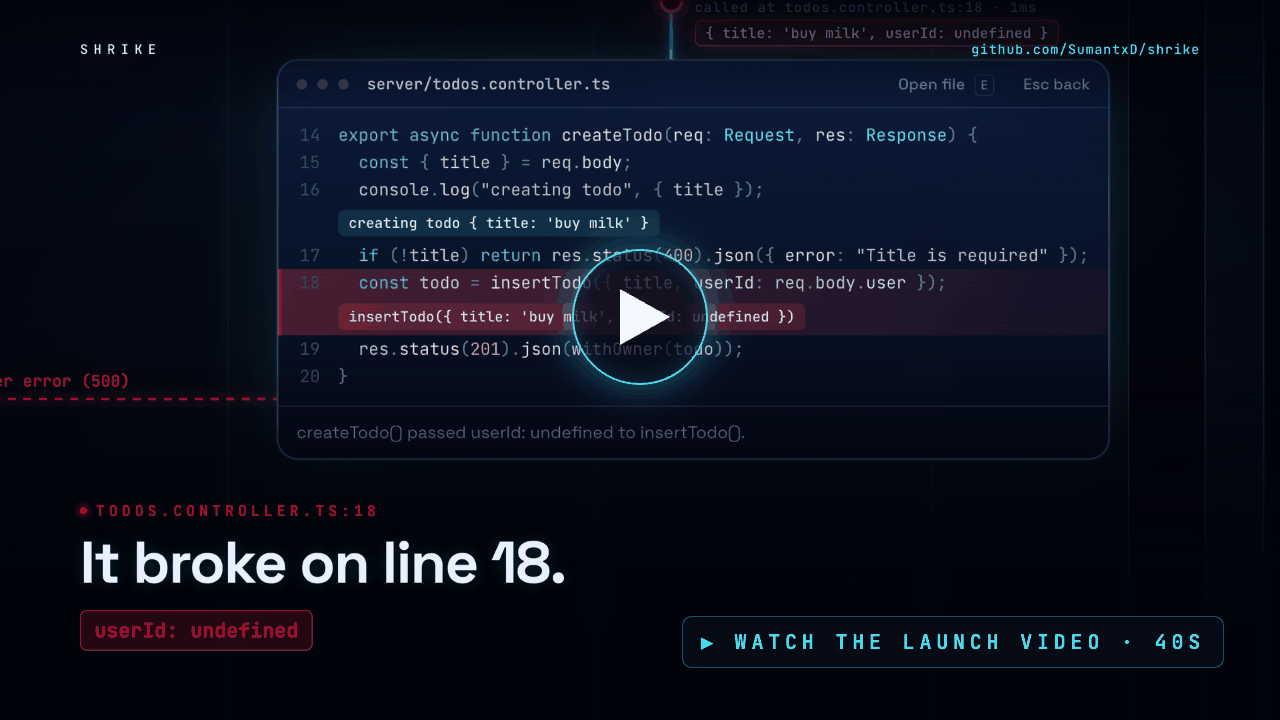
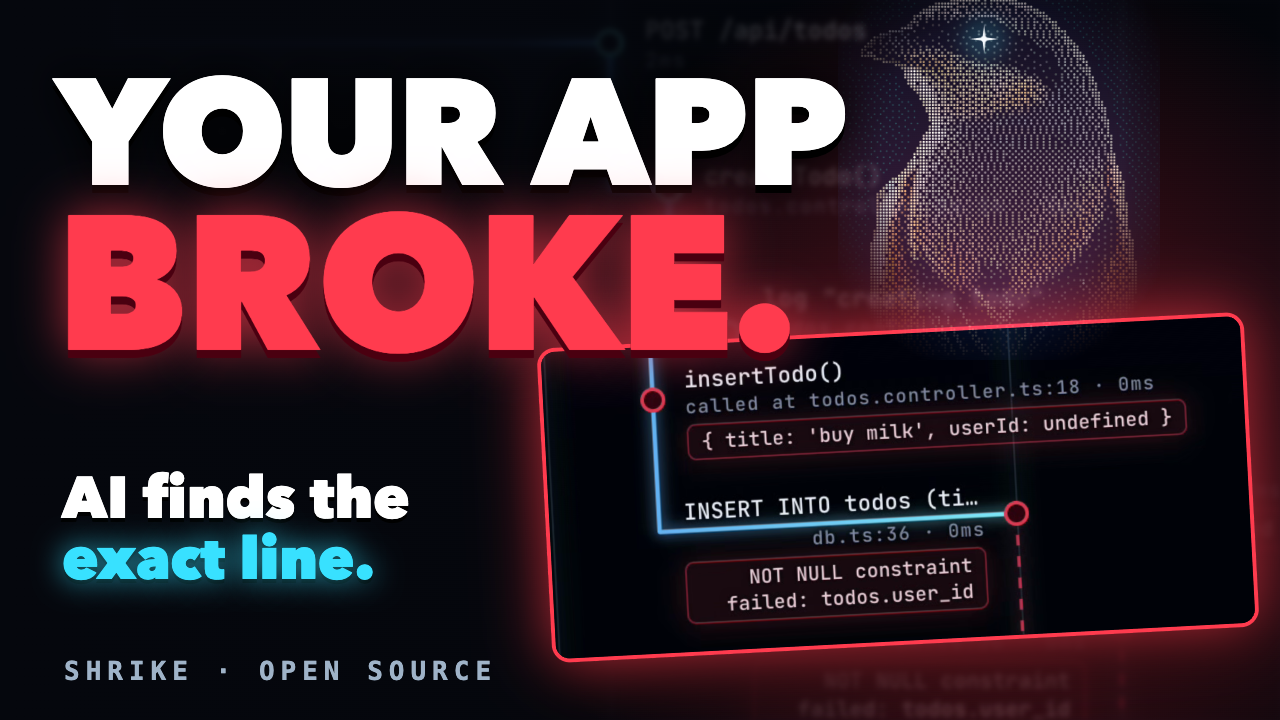
Link the launch video on YouTube

diff --git a/README.md b/README.md
@@ -34,11 +34,11 @@
 </p>
 
 <p align="center">
-  <a href="https://github.com/SumantxD/shrike/releases/download/v0.1.0/shrike-launch.mp4">
+  <a href="https://youtu.be/z_9tfvs3_jU">
     <img src="docs/media/shrike-launch-poster.png" alt="Watch the 40 second launch video" width="560">
   </a>
   <br>
-  <sub>Watch the 40 second launch video</sub>
+  <sub>Watch the 40 second launch video on YouTube</sub>
 </p>
 
 ## Why Shrike
